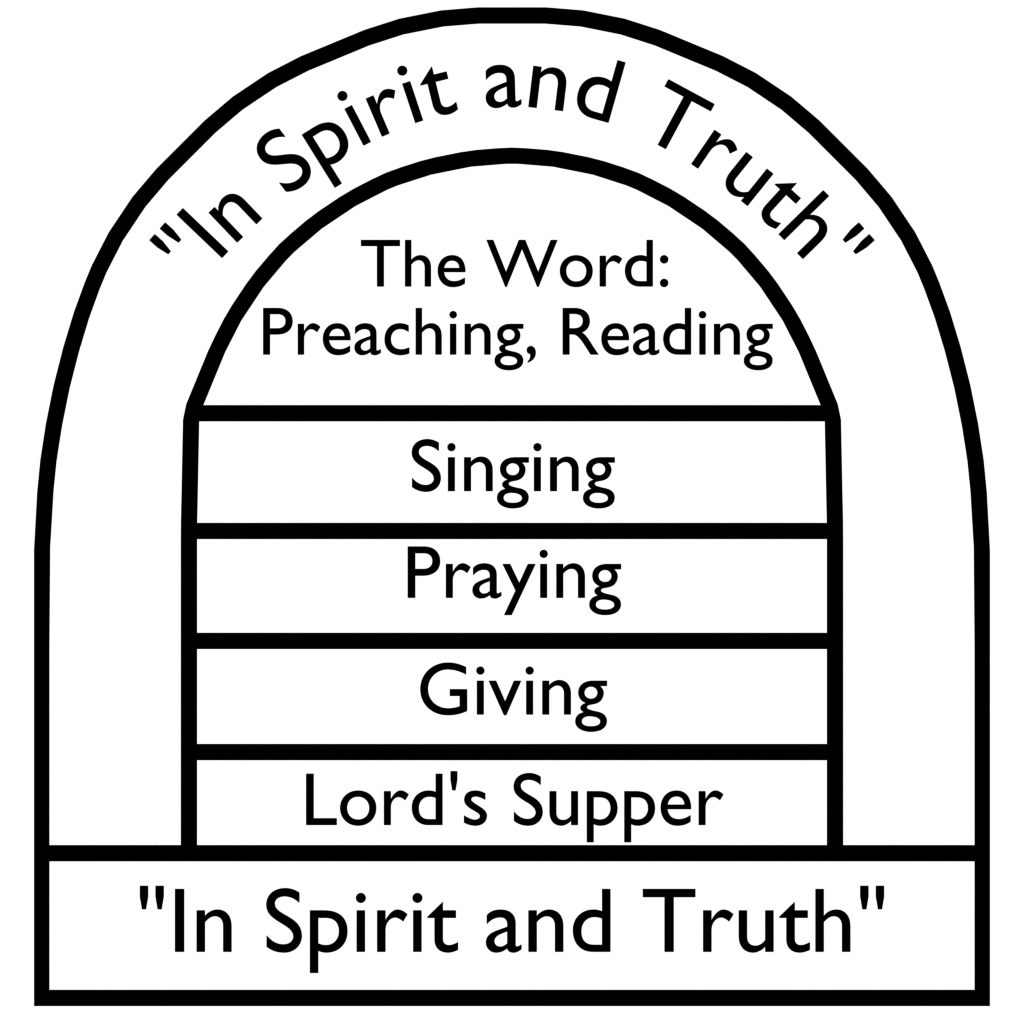
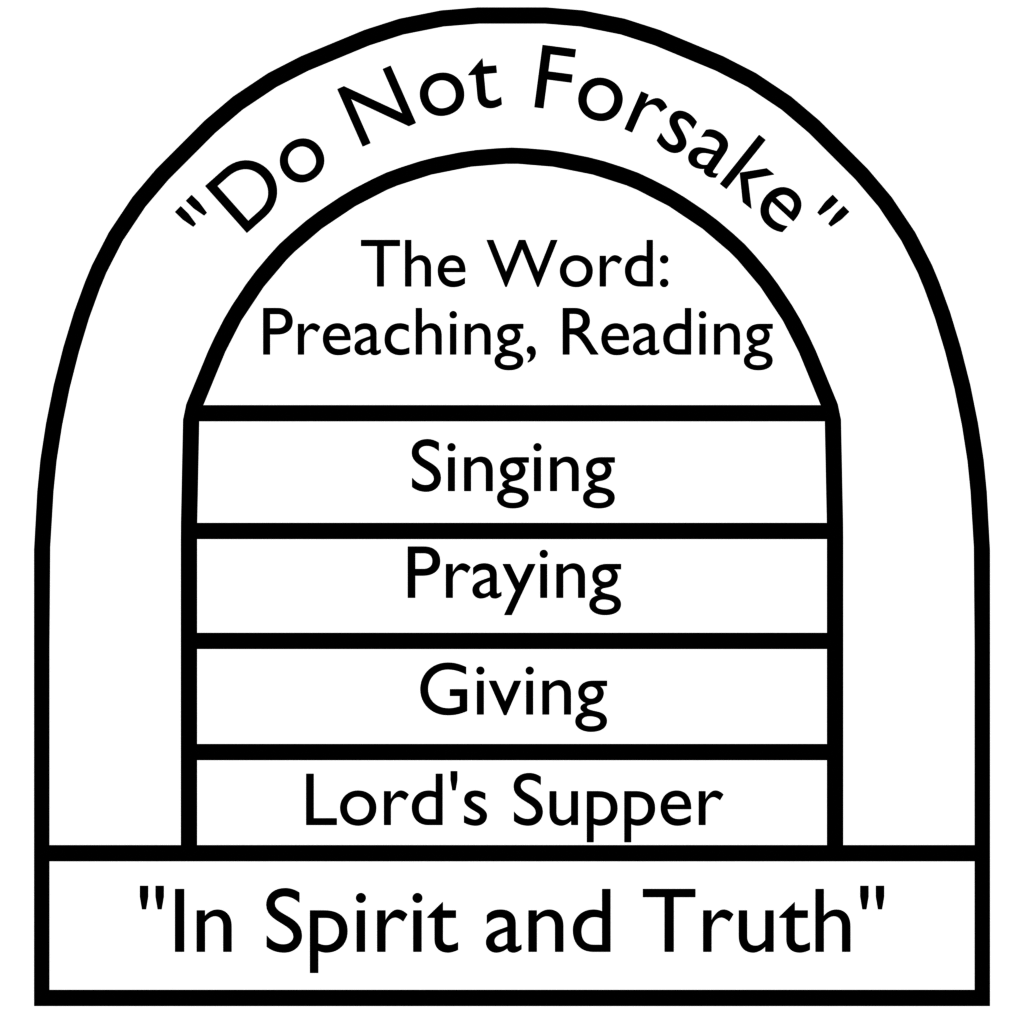
Mobile Transcript Rework

Changed region(s): [[0.1562, 0.0312, 0.8438, 0.25]]

diff --git a/Content/LessonSheets/6/EvalSheet.html b/Content/LessonSheets/6/EvalSheet.html
@@ -46,15 +46,15 @@
 		<div style="display: flex;flex-direction: row;">
 			<div>
 				<p>1. <strong class="Answer">J</strong> <input type="text" size="5" maxlength="20" placeholder="A-J">The head of the church we read about in the New Testament.</p>
-				<p>2. <strong class="Answer">?</strong> <input type="text" size="5" maxlength="20" placeholder="A-J">Other terms by which elders in God's church were known.</p>
-				<p>3. <strong class="Answer">?</strong> <input type="text" size="5" maxlength="20" placeholder="A-J">Persons through whose work people were able to become Christians and grow strong.</p>
-				<p>4. <strong class="Answer">?</strong> <input type="text" size="5" maxlength="20" placeholder="A-J">One of the responsibilities Jesus' church had.</p>
-				<p>5. <strong class="Answer">?</strong> <input type="text" size="5" maxlength="20" placeholder="A-J">Why deacons were appointed in New Testament churches.</p>
-				<p>6. <strong class="Answer">?</strong> <input type="text" size="5" maxlength="20" placeholder="A-J">What it means to worship "In Truth".</p>
+				<p>2. <strong class="Answer">D</strong> <input type="text" size="5" maxlength="20" placeholder="A-J">Other terms by which elders in God's church were known.</p>
+				<p>3. <strong class="Answer">B</strong> <input type="text" size="5" maxlength="20" placeholder="A-J">Persons through whose work people were able to become Christians and grow strong.</p>
+				<p>4. <strong class="Answer">A</strong> <input type="text" size="5" maxlength="20" placeholder="A-J">One of the responsibilities Jesus' church had.</p>
+				<p>5. <strong class="Answer">I</strong> <input type="text" size="5" maxlength="20" placeholder="A-J">Why deacons were appointed in New Testament churches.</p>
+				<p>6. <strong class="Answer">G</strong> <input type="text" size="5" maxlength="20" placeholder="A-J">What it means to worship "In Truth".</p>
 				<p>7. <strong class="Answer">E</strong> <input type="text" size="5" maxlength="20" placeholder="A-J">Something early Christians observed on the first day of the week.</p>
-				<p>8. <strong class="Answer">?</strong> <input type="text" size="5" maxlength="20" placeholder="A-J">How all early Christians could teach and admonish each other.</p>
-				<p>9. <strong class="Answer">?</strong> <input type="text" size="5" maxlength="20" placeholder="A-J">How people became members of the church in New Testament times.</p>
-				<p>10. <strong class="Answer">?</strong> <input type="text" size="5" maxlength="20" placeholder="A-J">When people became members of the church in New Testament times.</p>
+				<p>8. <strong class="Answer">F</strong> <input type="text" size="5" maxlength="20" placeholder="A-J">How all early Christians could teach and admonish each other.</p>
+				<p>9. <strong class="Answer">C</strong> <input type="text" size="5" maxlength="20" placeholder="A-J">How people became members of the church in New Testament times.</p>
+				<p>10. <strong class="Answer">H</strong> <input type="text" size="5" maxlength="20" placeholder="A-J">When people became members of the church in New Testament times.</p>
 			</div>
 			<div>
 				<p>A. Spreading the gospel</p>

diff --git a/Scripts/LessonLogic.js b/Scripts/LessonLogic.js
@@ -152,7 +152,13 @@ function CycleSheets() {
 	}
 	DiagramIndex++;
 	if(DiagramIndex >= LeftColumn.childNodes.length){
-		DiagramIndex = 0;
+		if(isMobile()){
+			DiagramIndex = -1;
+			ShowMobileTranscript();
+		}
+		else {
+			DiagramIndex = 0;
+		}
 	}
 
 	document.getElementById(`Diagram-${DiagramIndex}`).classList.remove('non-active');
@@ -160,40 +166,7 @@ function CycleSheets() {
 
 
 
-
-
-
-
-var MobileFunction;
-
-function PressMobileButton(argument) {
-	MobileFunction();
-}
-
-
-
-
-
-function InitializeMobile(){
-	MobileFunction = ChangeMobileSheetSide;
-	RightColumn.classList.remove('active');
-	RightColumn.classList.add('non-active');
-
-	LeftColumn.classList.remove('non-active');
-	LeftColumn.classList.add('active');
-	DynamicMobileButton.textContent = "Flip Worksheet: Back";
-}
-
-function ChangeMobileSheetSide(){
-	ShowBack();
-	MobileFunction = ShowMobileTranscript;
-	DynamicMobileButton.textContent = "Switch to: Transcript";
-}
-
 function ShowMobileTranscript(){
-	MobileFunction = InitializeMobile;
-	HideFront();
-	HideBack();
 	RightColumn.classList.remove('non-active');
 	RightColumn.classList.add('active');
 	LeftColumn.classList.add('non-active');
